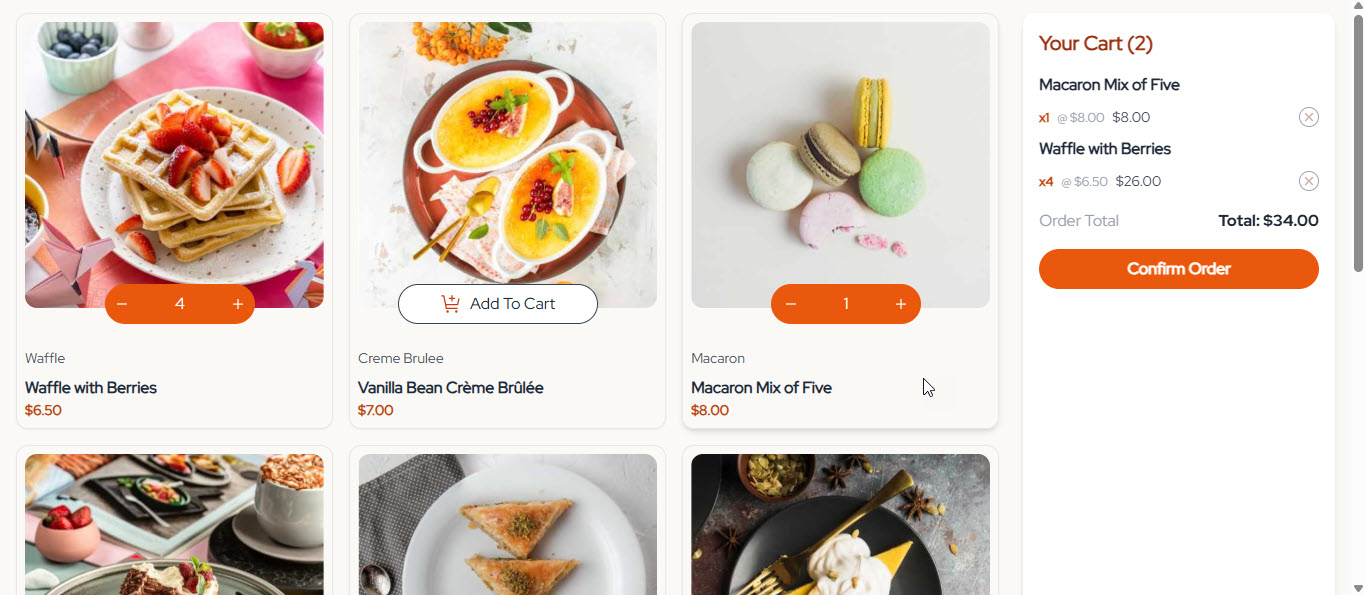
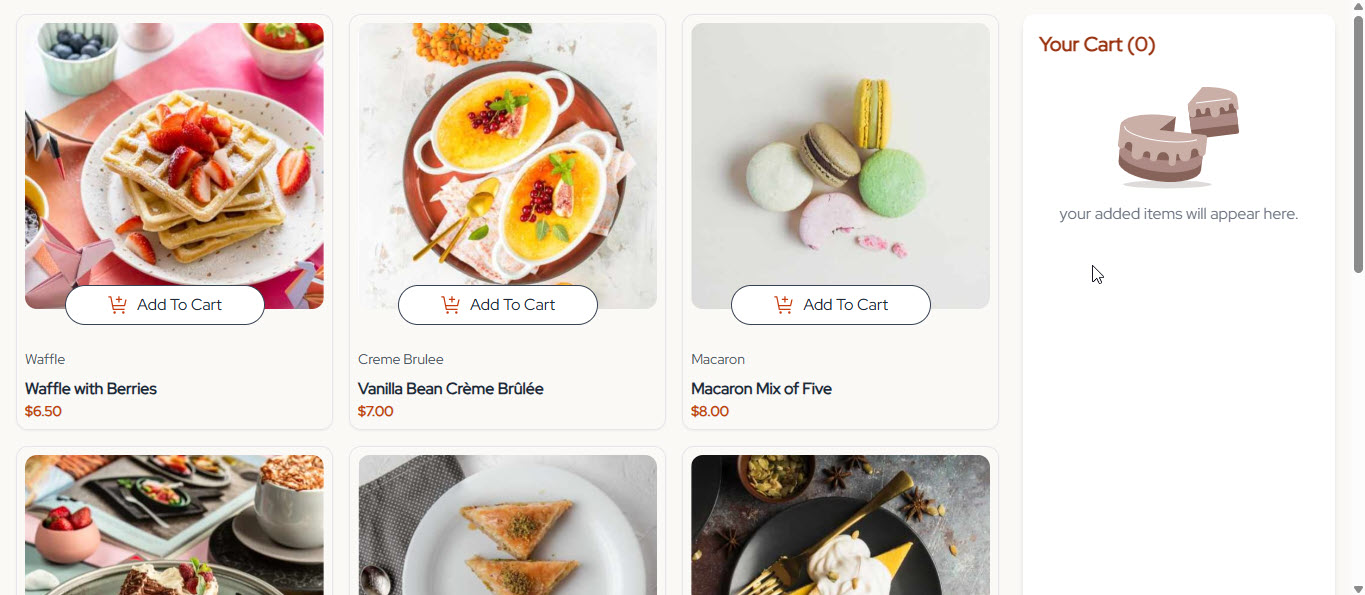
update last

diff --git a/src/data/desserts.js b/src/data/desserts.js
@@ -1,12 +1,12 @@
 export const desserts = [
-    { id: 1, name: "Waffle with Berries", price: 6.5, image: "image-waffle-desktop.jpg", short_name: "Waffle" },
-    { id: 2, name: "Vanilla Bean Crème Brûlée", price: 7.0, image: "image-creme-brulee-desktop.jpg", short_name: "Creme Brulee" },
-    { id: 3, name: "Macaron Mix of Five", price: 8.0, image: "image-macaron-desktop.jpg", short_name: "Macaron" },
-    { id: 4, name: "Classic Tiramisu", price: 5.5, image: "image-tiramisu-desktop.jpg", short_name: "Tiramisu" },
-    { id: 5, name: "Pistachio Baklava", price: 4.0, image: "image-baklava-desktop.jpg", short_name: "Baklava" },
-    { id: 6, name: "Lemon Meringue Pie", price: 5.0, image: "image-meringue-desktop.jpg", short_name: "Pie" },
-    { id: 7, name: "Red Velvet Cake", price: 4.5, image: "image-cake-desktop.jpg", short_name: "Red Velvet" },
-    { id: 8, name: "Salted Caramel Brownie", price: 5.5, image: "image-brownie-desktop.jpg", short_name: "Brownies" },
-    { id: 9, name: "Vanilla Panna Cotta", price: 6.5, image: "image-panna-cotta-desktop.jpg", short_name: "Panna Cotta" }
+    { id: 1, name: "Waffle with Berries", price: 6.5, image: "image-waffle-desktop.jpg", short_name: "Waffle", image_thumb:"image-waffle-thumbnail.jpg" },
+    { id: 2, name: "Vanilla Bean Crème Brûlée", price: 7.0, image: "image-creme-brulee-desktop.jpg", short_name: "Creme Brulee", image_thumb:"image-creme-brulee-thumbnail.jpg" },
+    { id: 3, name: "Macaron Mix of Five", price: 8.0, image: "image-macaron-desktop.jpg", short_name: "Macaron", image_thumb:"image-macaron-thumbnail.jpg" },
+    { id: 4, name: "Classic Tiramisu", price: 5.5, image: "image-tiramisu-desktop.jpg", short_name: "Tiramisu", image_thumb:"image-tiramisu-thumbnail.jpg" },
+    { id: 5, name: "Pistachio Baklava", price: 4.0, image: "image-baklava-desktop.jpg", short_name: "Baklava", image_thumb:"image-baklava-thumbnail.jpg" },
+    { id: 6, name: "Lemon Meringue Pie", price: 5.0, image: "image-meringue-desktop.jpg", short_name: "Pie", image_thumb:"image-meringue-thumbnail.jpg" },
+    { id: 7, name: "Red Velvet Cake", price: 4.5, image: "image-cake-desktop.jpg", short_name: "Red Velvet", image_thumb:"image-cake-thumbnail.jpg" },
+    { id: 8, name: "Salted Caramel Brownie", price: 5.5, image: "image-brownie-desktop.jpg", short_name: "Brownies", image_thumb:"image-brownie-thumbnail.jpg" },
+    { id: 9, name: "Vanilla Panna Cotta", price: 6.5, image: "image-panna-cotta-desktop.jpg", short_name: "Panna Cotta", image_thumb:"image-panna-cotta-thumbnail.jpg" }
   ];
   

diff --git a/src/components/OrderModal.jsx b/src/components/OrderModal.jsx
@@ -3,15 +3,29 @@ import React from "react";
 export default function OrderModal({ cartItems, total, onClose }) {
   return (
     <div className="fixed inset-0 bg-black bg-opacity-40 flex items-center justify-center z-50">
-      <div className="bg-white p-6 rounded-xl w-[90%] max-w-md text-center">
-        <h2 className="text-xl font-bold mb-4">Order Confirmed</h2>
-        <ul className="text-left space-y-2 mb-4">
+      <div className="bg-white p-6 rounded-xl w-[90%] max-w-md">
+        <img src="/images/icon-order-confirmed.svg" alt="confirm" />
+        <h2 className="text-xl font-bold mb-4 font-redhatbold">Order Confirmed</h2>
+        <ul className="text-left space-y-2 mb-4 max-h-64 overflow-y-auto pr-2">
           {cartItems.map(item => (
-            <li key={item.id}>{item.name} x{item.quantity} — ${(item.price * item.quantity).toFixed(2)}</li>
+            <li key={item.id}>
+              <div className="flex p-3 bg-rose-50 rounded-[15px] flex-row gap-4 items-center" >
+              <img src={`./images/${item.image_thumb}`} alt={item.name} className="rounded-[15px] h-12 w-12 object-cover"/>
+              <div className="flex flex-col w-full">
+                <p className="font-extrabold">{item.name}</p>
+                <div className="flex gap-4"><span className="text-orange-400 font-bold">{item.quantity}x</span>
+                <span className="text-gray-500">@ {(item.price).toFixed(2)} </span>
+                <span className="ml-auto font-bold">${(item.price * item.quantity).toFixed(2)}</span></div>
+              </div>
+              </div>
+            </li>
           ))}
         </ul>
-        <div className="font-bold mb-4">Total: ${total.toFixed(2)}</div>
-        <button className="bg-orange-600 hover:bg-orange-700 text-white px-4 py-2 rounded" onClick={onClose}>
+        <div className="flex mb-4 w-full">
+          <span className="text-gray-500 text-sm">Order Total</span>
+          <span className="ml-auto font-bold text-xl">Total: ${total.toFixed(2)}</span>
+        </div>
+        <button className="bg-orange-600 hover:bg-orange-700 text-white px-4 py-2 w-full rounded-[20px]" onClick={onClose}>
           Start New Order
         </button>
       </div>

diff --git a/src/components/Cart.jsx b/src/components/Cart.jsx
@@ -7,7 +7,10 @@ export default function Cart({ cartItems, onRemove, onConfirm }) {
     <div className="bg-white p-4 rounded-xl shadow-md sticky top-4">
       <h2 className="font-extrabold text-orange-800 text-xl mb-4">Your Cart ({cartItems.length})</h2>
       {cartItems.length === 0 ? (
-        <p className="text-gray-500">Your cart is empty.</p>
+        <><div className="flex items-center justify-center">
+          <img src="/images/illustration-empty-cart.svg" alt="empty" />
+        </div>
+        <p className="text-gray-500 text-center">your added items will appear here.</p></>
       ) : (
         <ul className="space-y-2 mb-4">
           {cartItems.map(item => (
@@ -22,8 +25,6 @@ export default function Cart({ cartItems, onRemove, onConfirm }) {
                   <img src="/images/icon-remove-item.svg" alt="remove" /></button>
             </li></>
           ))}
-        </ul>
-      )}
       <div className="flex mb-4 items-center mt-4">
         <span className="text-gray-400">Order Total</span>
         <span className="ml-auto font-extrabold text-right font-redhatbold">Total: ${total.toFixed(2)}</span>
@@ -35,6 +36,8 @@ export default function Cart({ cartItems, onRemove, onConfirm }) {
       >
         Confirm Order
       </button>
+        </ul>
+      )}
     </div>
   );
 }

diff --git a/README.md b/README.md
@@ -28,7 +28,9 @@ Users should be able to:
 
 ### Screenshot
 
-![](./screenshot.jpg)
+![](./src/assets/screenshot/ss01.jpg)
+![](./src/assets/screenshot/ss02.jpg)
+![](./src/assets/screenshot/ss03.jpg)
 
 ### Links
 
